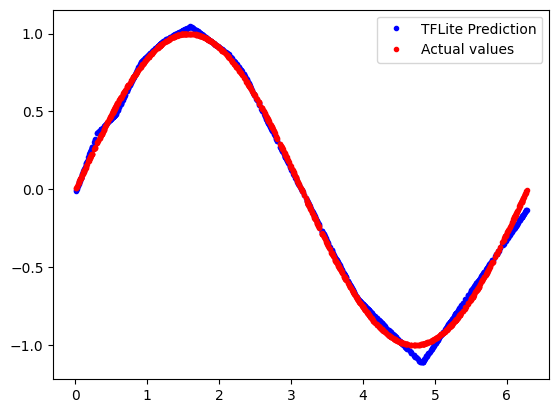
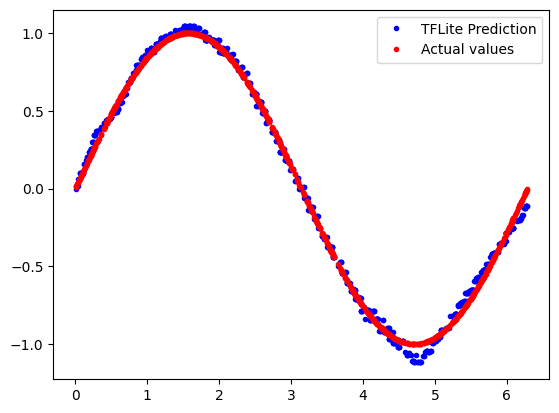
First version of python scripts
- This will be followed by other PR's for the other scripts as discussed.

diff --git a/tensorflow/lite/micro/examples/hello_world/train/train_hello_world_model.py b/tensorflow/lite/micro/examples/hello_world/train/train_hello_world_model.py
@@ -468,8 +468,6 @@ def create_tflite_models(config: ConfigData, ds: Dataset) -> None:
   converter.optimizations = [tf.lite.Optimize.DEFAULT]
   # Enforce integer only quantization
   converter.target_spec.supported_ops = [tf.lite.OpsSet.TFLITE_BUILTINS_INT8]
-  converter.inference_input_type = tf.int8
-  converter.inference_output_type = tf.int8
   # Provide a representative dataset to ensure we quantize correctly.
   converter.representative_dataset = representative_dataset
   model_quant_tflite = converter.convert()

diff --git a/tensorflow/lite/micro/examples/hello_world/evaluate_test.py b/tensorflow/lite/micro/examples/hello_world/evaluate_test.py
@@ -26,7 +26,7 @@ PREFIX_PATH = resource_loader.get_path_to_datafile('')
 
 
 class HelloWorldQuantModelTest(test_util.TensorFlowTestCase):
-  model_path = os.path.join(PREFIX_PATH, 'hello_world_no_quant.tflite')
+  model_path = os.path.join(PREFIX_PATH, 'hello_world.tflite')
   input_shape = (1, 1)
   output_shape = (1, 1)
   # Create the tflm interpreter

diff --git a/tensorflow/lite/micro/examples/hello_world/evaluate.py b/tensorflow/lite/micro/examples/hello_world/evaluate.py
@@ -117,7 +117,7 @@ def get_tflite_prediction(hello_world_model_path, x_values):
 
 def main(_):
   hello_world_no_quant_model_path = os.path.join(
-      PREFIX_PATH, 'hello_world_no_quant.tflite')
+      PREFIX_PATH, 'hello_world.tflite')
 
   x_values = generate_random_input()
 
